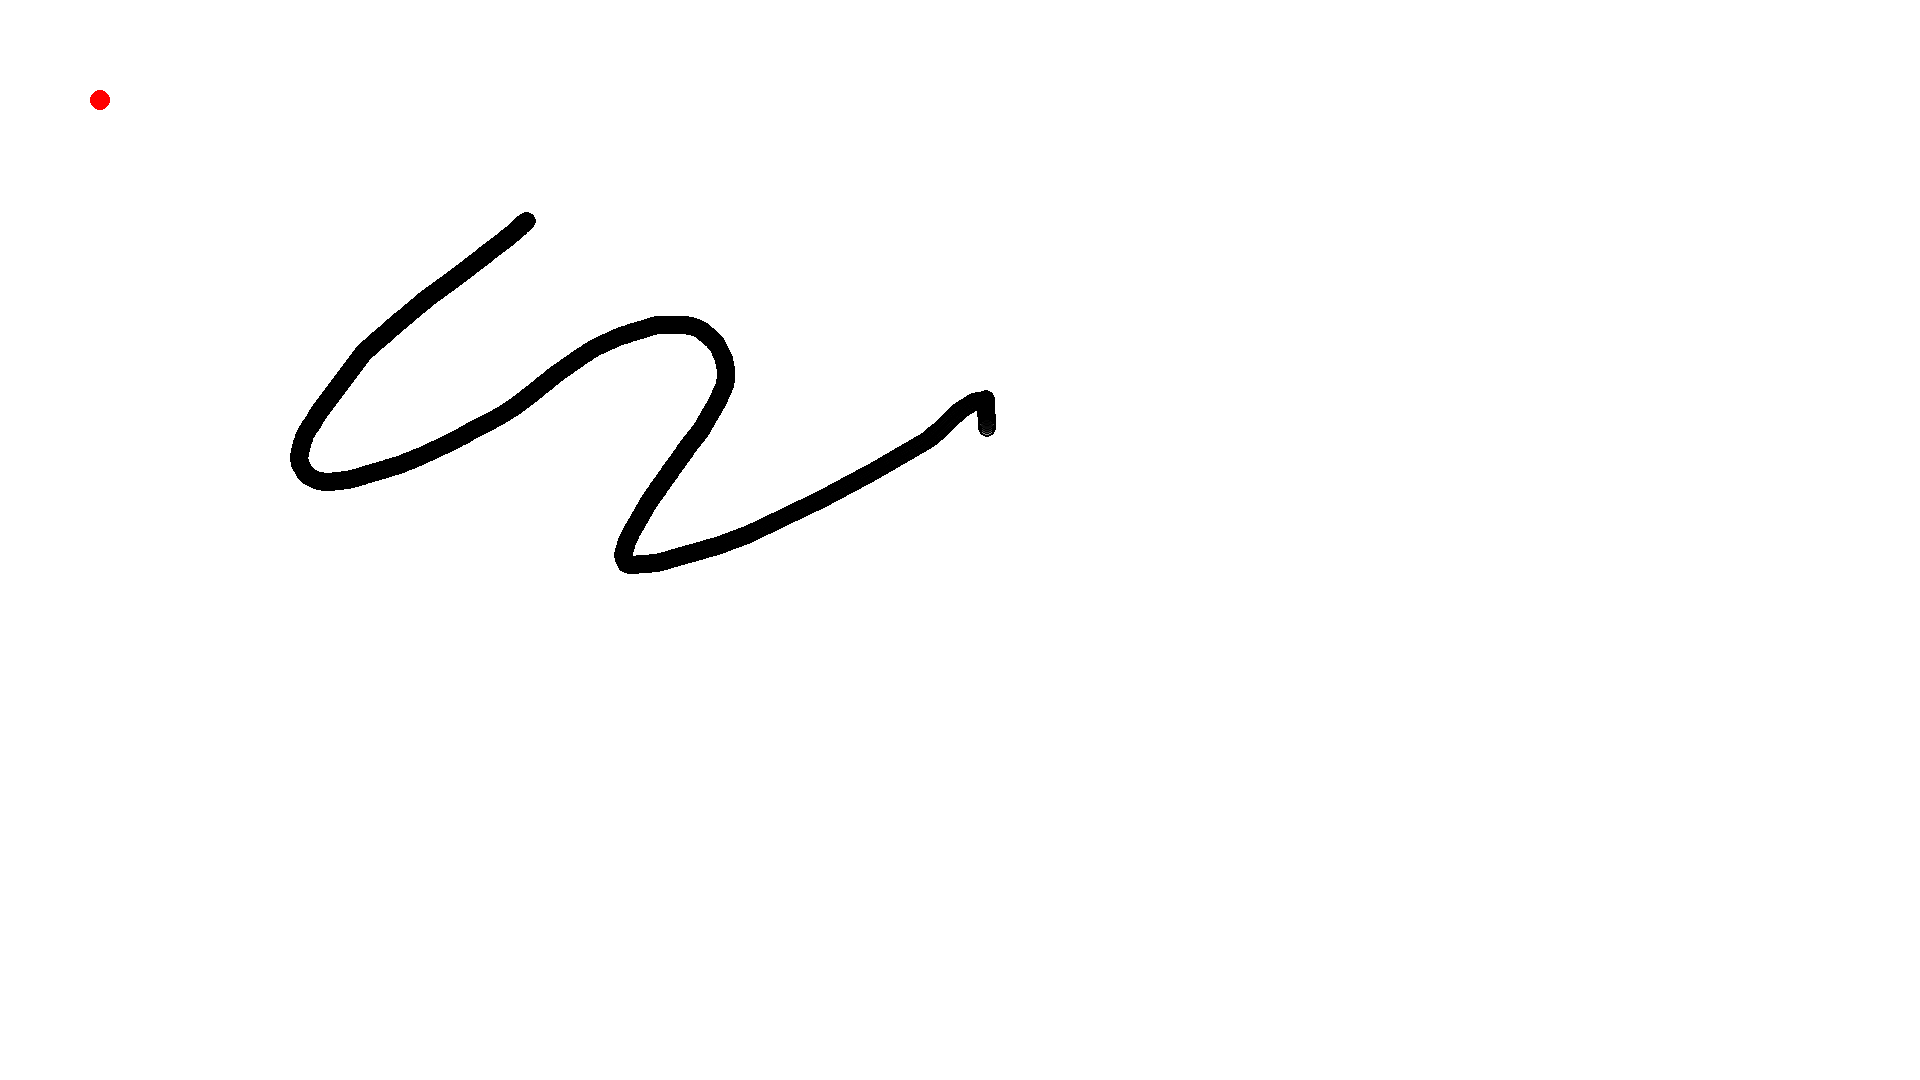
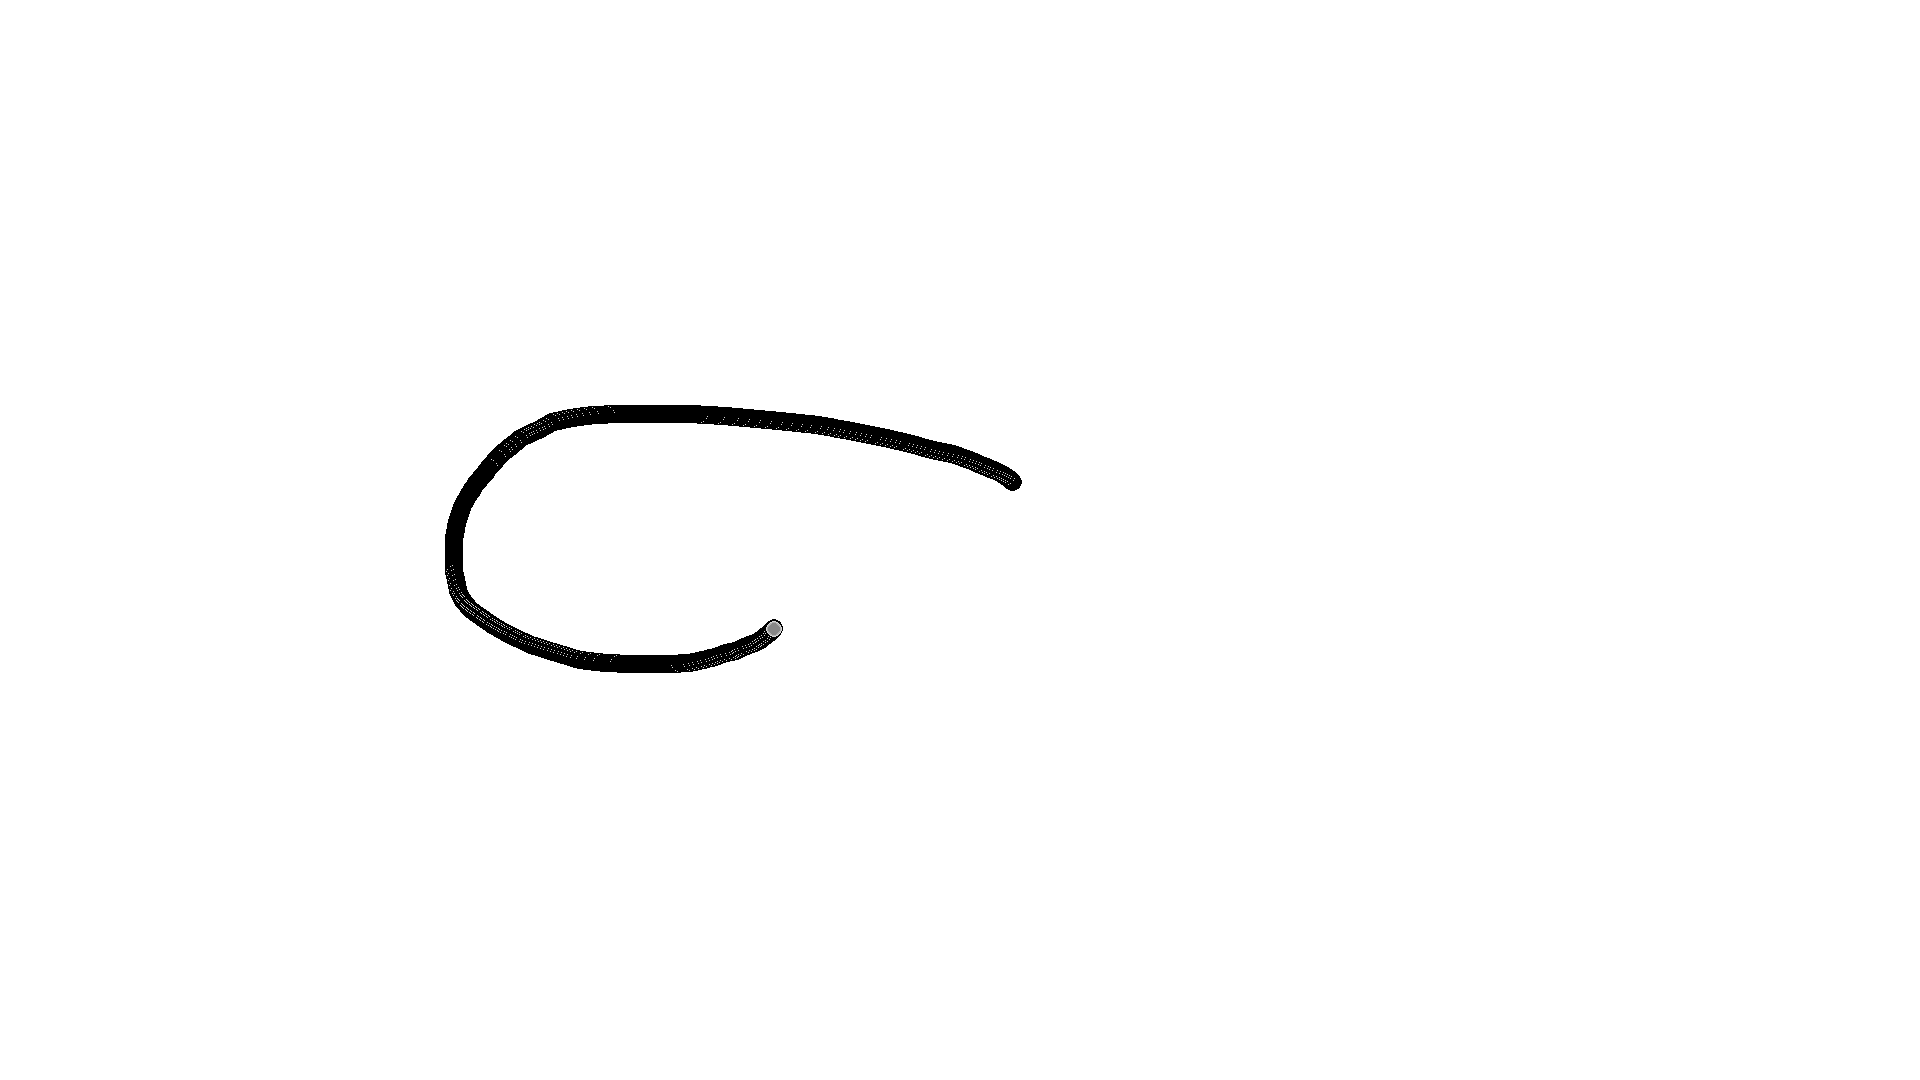
fixed bug and add cursor function

Changed region(s): [[0.125, 0.275, 0.5312, 0.6417], [0.1875, 0.2444, 0.25, 0.3361], [0.25, 0.1833, 0.2812, 0.2444]]

diff --git a/test.py b/test.py
@@ -1,108 +1,84 @@
 import pygame
-from src import utils
-import sys
+import os
 
-def draw_soft_circle(surface, color, pos, radius):
-    # 主圆（使用传入颜色，Alpha=255）
-    main_color = (color[0], color[1], color[2], 255)
-    pygame.draw.circle(surface, main_color, pos, int(radius))
-    
-    # 边缘模糊圆（Alpha 指数衰减）
-    num_layers = 3  # 减少层数
-    for i in range(1, num_layers + 1):
-        alpha = int(color[3] * (0.6 ** i))  # 指数衰减
-        layer_radius = radius + i * 3  # 扩大半径步长
-        layer_color = (color[0], color[1], color[2], alpha)
-        pygame.draw.circle(surface, layer_color, pos, int(layer_radius))
+# 初始化 Pygame
+pygame.init()
+screen = pygame.display.set_mode((800, 600))
+pygame.display.set_caption("PNG 光标绘图工具")
 
-class Point:
-    def __init__(self, x, y):
-        self.x = x
-        self.y = y
+# ======================
+# 1. 资源加载与初始化
+# ======================
+# 加载透明光标图片（尺寸建议 32x32）
+cursor_img = pygame.image.load("cursor.png").convert_alpha()
+cursor_rect = cursor_img.get_rect()
 
-def drawLine(p0, p1, screen, width):
-    line_color = (0, 255, 0, 80)  # 降低基础 Alpha 值（原为 128）
-    if p0.x == p1.x : 
-        ymin = utils.min (p0.y, p1.y)
-        ymax = utils.max (p0.y, p1.y)
-        for y in range (ymin, ymax + 1, 1) :                                                                                             
-            draw_soft_circle (screen, utils.ALPHABLACK, (int (p0.x), int (y)), int (width))
-    elif p0.y == p1.y : 
-        xmin = utils.min (p0.x, p1.x)
-        xmax = utils.max (p0.x, p1.x)
-        for x in range (xmin, xmax + 1, 1) : 
-            draw_soft_circle (screen, utils.ALPHABLACK, (int (x), int (p0.y)), int (width))
-    else : 
-        startPoint = p0 
-        endPoint = p1
-        if p1.x < p0.x : 
-            startPoint = p1 
-            endPoint = p0
-        x, y = startPoint.x, startPoint.y 
-        for x in range (startPoint.x, endPoint.x + 1, 1) : 
-            draw_soft_circle (screen, utils.ALPHABLACK, (int (x), int (y)), int (width))
-            nextX = x + 1
-            nextY = y 
-            valStill = utils.abs (utils.F (p0, p1, Point (nextX, y)))
-            valAdd = utils.abs (utils.F (p0, p1, Point (nextX, y + 1)))
-            valSub = utils.abs (utils.F (p0, p1, Point (nextX, y - 1)))
-            if (valStill <= valAdd) and (valStill <= valSub) :
-                nextY = y
-            elif (valAdd <= valStill) and (valAdd <= valSub) : 
-                nextY = y + 1
-            else :
-                nextY = y - 1
-            y = nextY
+# 创建画布（存储所有绘制内容）
+canvas = pygame.Surface(screen.get_size(), pygame.SRCALPHA)
+canvas.fill((255, 255, 255, 0))  # 初始透明背景
 
+# 隐藏系统光标
+pygame.mouse.set_visible(False)
 
-if __name__ == '__main__':
-    pygame.init()
-    width, height = 1920, 1080
-    finalScreen = pygame.display.set_mode((width, height))
-    clock = pygame.time.Clock()
-    screen = pygame.Surface((width, height), pygame.SRCALPHA)
+# ======================
+# 2. 绘图参数设置
+# ======================
+drawing = False
+last_pos = None
+brush_color = (0, 0, 255)  # 蓝色画笔
+brush_size = 10
 
-    drawing = False
-    points = []
-    running = True
-
-    finalScreen.fill (utils.WHITE)
-    while running:
-        # 清空主屏幕和临时 Surface
-        #finalScreen.fill(utils.WHITE)  # 修复叠加问题的关键！
-        screen.fill((0, 0, 0, 0))
-
-        current_pos = pygame.mouse.get_pos()
-        if drawing and len(points) >= 1:
-            points.append(current_pos)
-            if len(points) >= 3:
-                for i in range (len (points) - 1) :
-                    t = 5
-                    for j in range (0, t, 1) : 
-                        xj0 = points[i][0] + j * (points[i + 1][0] - points[i][0]) // t 
-                        xj1 = points[i][0] + (j + 1) * (points[i + 1][0] - points[i][0]) // t
-                        yj0 = points[i][1] + j * (points[i + 1][1] - points[i][1]) // t
-                        yj1 = points[i][1] + (j + 1) * (points[i + 1][1] - points[i][1]) // t
-                        p0 = Point (xj0, yj0)
-                        p1 = Point (xj1, yj1)
-                        drawLine (p0, p1, screen, width=5)
-                        if p0 == p1 : 
-                            break
-
-        # 处理事件
-        for event in pygame.event.get():
-            if event.type == pygame.QUIT:
-                running = False
-            elif event.type == pygame.MOUSEBUTTONDOWN:
+# ======================
+# 3. 主循环
+# ======================
+running = True
+while running:
+    # 处理事件
+    for event in pygame.event.get():
+        if event.type == pygame.QUIT:
+            running = False
+        
+        # 鼠标按下开始绘制
+        elif event.type == pygame.MOUSEBUTTONDOWN:
+            if event.button == 1:  # 左键
                 drawing = True
-                points = [current_pos]
-            elif event.type == pygame.MOUSEBUTTONUP:
+                last_pos = pygame.mouse.get_pos()
+        
+        # 鼠标释放停止绘制
+        elif event.type == pygame.MOUSEBUTTONUP:
+            if event.button == 1:
                 drawing = False
+                last_pos = None
+        
+        # 鼠标移动绘制
+        elif event.type == pygame.MOUSEMOTION and drawing:
+            current_pos = pygame.mouse.get_pos()
+            if last_pos:
+                # 在画布上绘制线条
+                pygame.draw.line(
+                    canvas, 
+                    brush_color + (255,),  # 添加完全不透明Alpha
+                    last_pos, 
+                    current_pos, 
+                    brush_size
+                )
+            last_pos = current_pos
 
-        # 渲染
-        finalScreen.blit(screen, (0, 0))
-        pygame.display.flip()
-        clock.tick(120)
+    # ======================
+    # 4. 画面刷新逻辑（关键）
+    # ======================
+    # 清空屏幕（但不影响画布）
+    screen.fill((255, 255, 255))  # 白色背景
+    
+    # 绘制历史痕迹到屏幕
+    screen.blit(canvas, (0, 0))
+    
+    # 绘制光标到屏幕（最后绘制保证在最上层）
+    mouse_pos = pygame.mouse.get_pos()
+    cursor_rect.center = mouse_pos
+    screen.blit(cursor_img, cursor_rect)
 
-    pygame.quit()
-    sys.exit()
+    # 更新显示
+    pygame.display.flip()
+
+pygame.quit()

diff --git a/src/main.py b/src/main.py
@@ -11,6 +11,9 @@ import os
 current_dir = os.path.dirname (os.path.abspath (__file__))
 parent_dir = os.path.dirname (current_dir)
 saves_dir = os.path.join (parent_dir, "saves")
+picture_dir = os.path.join (parent_dir, "picture")
+paintFilename = f"painter.png"
+paintFullPath = os.path.join (picture_dir, paintFilename)
 
 if __name__ == '__main__' :
     pygame.init ()
@@ -28,18 +31,36 @@ if __name__ == '__main__' :
 
     last_pos = None
     points = []
-     
+    
+    brush_size = 100
+
+    orgin_cursor_image = pygame.image.load (paintFullPath).convert_alpha ()
+    orgin_cursor_rect = orgin_cursor_image.get_rect ()
+    pygame.mouse.set_visible (False)
+    new_size = (brush_size, brush_size)
+    cursor_image = pygame.transform.scale (orgin_cursor_image, new_size)
+    cursor_rect = cursor_image.get_rect ()
+
+    finalScreen.fill (utils.WHITE)
+    screen.fill (utils.ALPHAWHITE)
+    drawing = False 
+    last_pos = None
+    points = []
+
     while running :
         #finalScreen.fill (utils.WHITE)
-        screen.fill ((0, 0, 0, 0))
+        #screen.fill ((0, 0, 0, 0))
+        canavas = pygame.Surface ((width, height), pygame.SRCALPHA)
+        canavas.fill ((0, 0, 0, 0))
         pygame.draw.circle (finalScreen, (255, 0, 0), (100, 100), 10) 
         current_pos = pygame.mouse.get_pos ()
+        cursor_rect.center = (current_pos[0], current_pos[1])
+        canavas.blit (cursor_image, cursor_rect)
         if drawing and last_pos and current_pos : 
             #pygame.draw.line (screen, utils.ALPHABLACK, last_pos, current_pos, 5)
             points.append (current_pos)
             if len (points) >= 2 : 
-                #print (points)
-                 
+                #print (points) 
                 for i in range (len (points) - 1) :
                     dx = points[i + 1][0] - points[i][0]
                     dy = points[i + 1][1] - points[i][1]
@@ -54,6 +75,9 @@ if __name__ == '__main__' :
                         utils.drawLine (p0, p1, screen, 5)
                         if p0 == p1 : 
                             break
+            elif len (points) == 1 : 
+                p0 = utils.Point (round (points[0][0]), round (points[0][1]))
+                utils.drawLine (p0, p0, screen, 5) 
         if drawing : 
             last_pos = current_pos
         for event in pygame.event.get () : 
@@ -77,10 +101,11 @@ if __name__ == '__main__' :
                 if event.key == K_s and (event.mod & KMOD_CTRL) : 
                     filename = f"saves.png"
                     fullPath = os.path.join (saves_dir, filename)
-                    pygame.image.save (finalScreen, fullPath)
+                    pygame.image.save (screen, fullPath)
                     print ("success save as screenshot.png")
         #pygame.draw.circle (screen, (0, 0, 0, 1), (100, 100), 10) 
         finalScreen.blit (screen, (0, 0))
+        finalScreen.blit (canavas, (0, 0))
         pygame.display.flip ()
         clock.tick (120)
     pygame.quit ()
